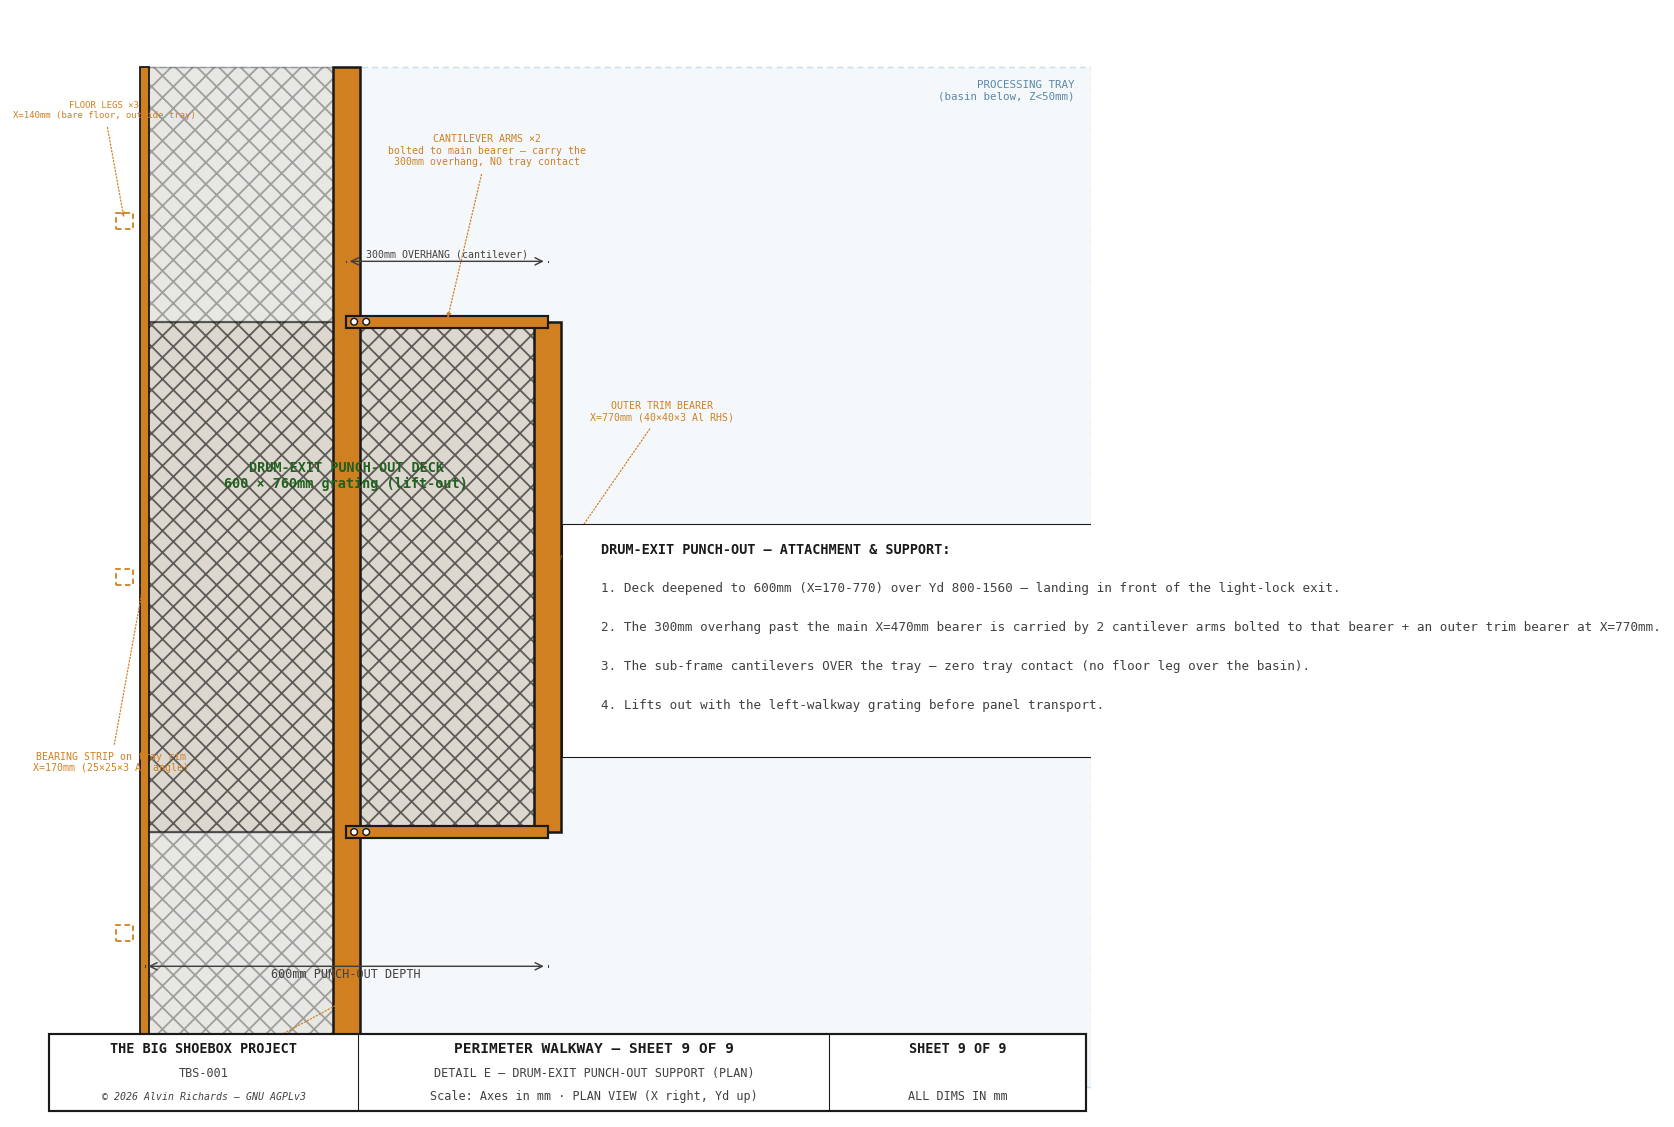
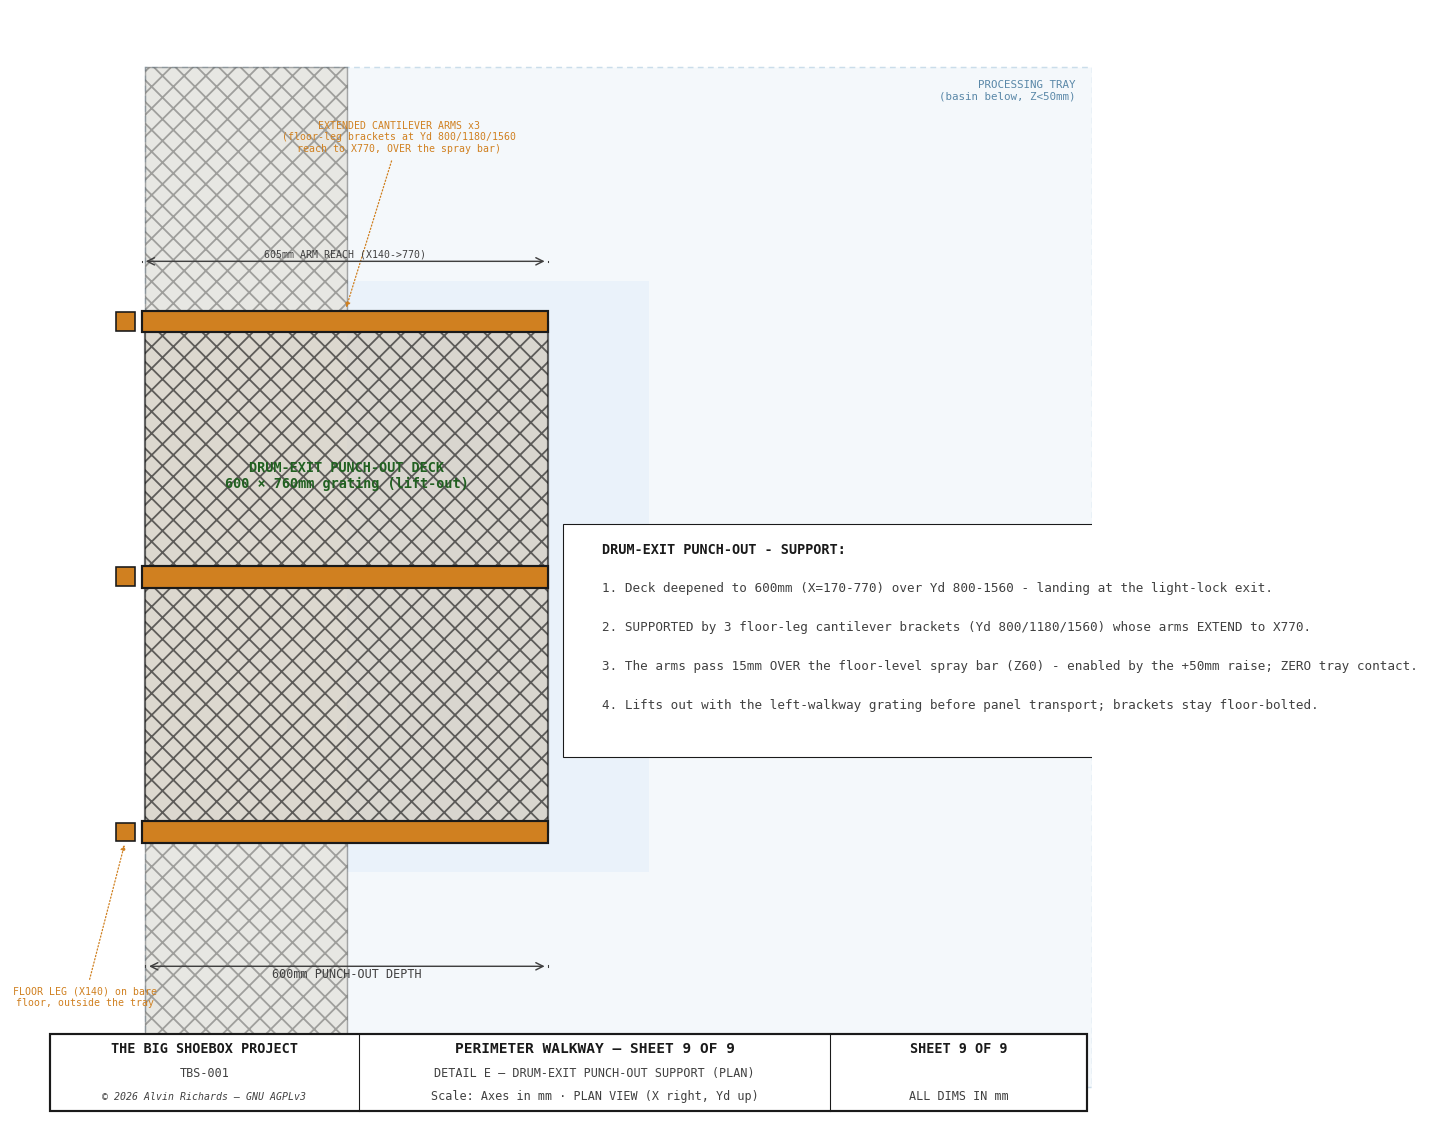
Cascade 1b (2D sheets 1+9): migrate plan + punch-out support to floor-legs
Sheet 1 (plan): left support now the 5 floor-leg brackets (markers + arms to X470,
3 to X770) instead of the edge beam + wall seats + bearing strip; legend + notes updated.
Sheet 9 (punch-out plan): the 300mm overhang is now carried by the 3 EXTENDED floor-leg
cantilever arms (Yd 800/1180/1560 -> X770, over the spray bar), not a main-bearer +
trim-bearer sub-frame. All 5 left-support sheets (1/4/5/6/9) now on the floor-leg design.

diff --git a/src/generators/generate_walkway_diagram.py b/src/generators/generate_walkway_diagram.py
@@ -993,59 +993,25 @@ def sheet1():
             ha="center", va="center", fontsize=7, color="#208020",
             **FONT, zorder=5, alpha=0.6)
 
-    # ── Left walkway support — steel edge beam + floor legs + bearing strip ──
+    # ── Left walkway support — FLOOR-LEG CANTILEVER brackets (plan) ──
     C_SUPPORT = "#D08020"   # orange for support elements
-
-    # Steel edge beam along Yd at X=470 (processing tray side), FULL WIDTH
-    # Simply supported wall-to-wall on a bolt-through wall seat at each end.
-    C_EDGEBM = "#707078"   # grey for the steel edge beam
-    beam_x = LXR   # = 470mm
-    ax.plot([beam_x, beam_x], [0, C_WID],
-            color=C_EDGEBM, lw=4.5, zorder=8, solid_capstyle="butt")
-    ax.text(beam_x + 24, C_WID * 0.5,
-            f"STEEL EDGE BEAM\n{LEFT_WK_BEARER_SIZE}\u00d7{LEFT_WK_BEARER_SIZE}"
-            f"\u00d7{LEFT_WK_BEARER_T}mm STEEL SHS\nFULL WIDTH (REMOVABLE)",
-            ha="left", va="center", fontsize=4.5, color=C_EDGEBM,
-            fontweight="bold", **FONT, zorder=15, rotation=90)
-    # Wall-seat brackets at each end (bolt-through wall, IBC-style)
-    for wy in (0, C_WID):
-        ax.add_patch(Rectangle((beam_x - 10, (wy - 22) if wy else wy),
-                     20, 22, fc=C_EDGEBM, ec=C_OUT, lw=0.8, zorder=9))
-    leader(ax, beam_x, C_WID - 6, beam_x + 240, C_WID + 120,
-           "WALL SEAT (\u00d72)\nBOLT-THROUGH WALL\n3\u00d7 M12 + EXT PLATE\n(SEE SHEET 6)",
-           color=C_EDGEBM, fs=5, ha="center", va="center",
-           arrow_style="-|>", font=FONT)
-
-    # Bearing strip on tray rim (X=170, continuous along Yd)
-    strip_yd_start = NYI   # start at near walkway inner edge (Yd=300)
-    strip_yd_end   = FY    # end at far walkway inner edge (Yd=1962)
-    ax.plot([LX, LX], [strip_yd_start, strip_yd_end],
-            color=C_SUPPORT, lw=3.0, zorder=8, solid_capstyle="butt")
-    ax.text(LX - 20, (strip_yd_start + strip_yd_end) * 0.6,
-            f"BEARING\nSTRIP\n(15mm Al)",
-            ha="right", va="center", fontsize=4.5, color=C_SUPPORT,
-            fontweight="bold", **FONT, zorder=15, rotation=90)
-
-    # Floor-standing support legs (cargo door side, X < tray rim)
-    leg_spacing = WALKWAY_LEFT_SPAN / (LEFT_WK_LEG_N + 1)
-    leg_x = LX - 30  # X=140 (on bare floor, outside tray)
-    leg_sz = 18
-    for i in range(LEFT_WK_LEG_N):
-        cy = NYI + leg_spacing * (i + 1)  # Yd position
-        # Leg marker (small square)
-        ax.add_patch(Rectangle((leg_x - leg_sz / 2, cy - leg_sz / 2),
-                     leg_sz, leg_sz,
+    leg_x = LEFT_WK_CANT_LEG_X                 # 140 (bare floor, outside tray)
+    arm_x0 = leg_x + LEFT_WK_CANT_POST / 2     # 165
+    leg_sz = 24
+    for cy in LEFT_WK_CANT_LEG_YDS:
+        wide_b = WALKWAY_LEFT_WIDE_YD_L <= cy <= WALKWAY_LEFT_WIDE_YD_R
+        reach = LEFT_WK_CANT_WIDE_REACH if wide_b else LEFT_WK_CANT_STD_REACH
+        aw = 16 if wide_b else 10
+        # cantilever arm to the grate inner edge (X470) / punch-out (X770)
+        ax.add_patch(Rectangle((arm_x0, cy - aw / 2), reach - arm_x0, aw,
+                     fc=C_SUPPORT, ec=C_OUT, lw=0.6, alpha=0.7, zorder=8))
+        # foot/post marker on the floor
+        ax.add_patch(Rectangle((leg_x - leg_sz / 2, cy - leg_sz / 2), leg_sz, leg_sz,
                      fc=C_SUPPORT, ec=C_OUT, lw=0.8, zorder=9))
-        # Cantilever arm to walkway edge
-        ax.plot([leg_x, LX + 20], [cy, cy],
-                color=C_SUPPORT, lw=1.5, zorder=8)
-    # Label first leg
-    c1_yd = NYI + leg_spacing
-    leader(ax, leg_x, c1_yd + leg_sz / 2 + 5,
-           leg_x - 300, c1_yd + leg_sz / 2 + 180,
-           f"FLOOR LEG (\u00d7{LEFT_WK_LEG_N})\n{int(leg_spacing)}mm SPACING\nON BARE FLOOR\n(OUTSIDE TRAY)",
-           color=C_SUPPORT, fs=5.5,
-           ha="center", va="center", arrow_style="-|>", font=FONT)
+    leader(ax, leg_x, LEFT_WK_CANT_LEG_YDS[0] + leg_sz / 2 + 5,
+           leg_x - 300, LEFT_WK_CANT_LEG_YDS[0] + 180,
+           "FLOOR-LEG CANTILEVER\nBRACKETS (x5) on BARE FLOOR (X140)\narms reach to X470 (3 extend to X770)",
+           color=C_SUPPORT, fs=5.5, ha="center", va="center", arrow_style="-|>", font=FONT)
 
     # ── Dimension lines ──────────────────────────────────────────────────────
     # Walkway width dimension (near walkway)
@@ -1067,7 +1033,7 @@ def sheet1():
         ("#E8F0FF",    0.3,      None,  "Processing tray"),
         (C_BRKT,     1.0,      None,  f"Wall bracket ({WALKWAY_BRACKET_T}mm std)"),
         ("#CC6644",  1.0,      None,  f"Widened bracket ({WALKWAY_WIDE_BRACKET_T}mm, 500mm arm)"),
-        (C_SUPPORT,  0.8,      None,  f"Support cradle / bearing strip (removable)"),
+        (C_SUPPORT,  0.8,      None,  f"Floor-leg cantilever bracket (x5, removable grate)"),
         ("#3DAA96",  0.35,     None,  f"Evap cooler transport stowage ({EVAP_W}×{EVAP_D}mm)"),
         ("#FF4444",  0.6,      None,  f"Spray bar slit ({SPRAY_BAR_SLIT_W}mm, near + far)"),
         ("#FF0000",  0.06,     None,  "Panel transport envelope"),
@@ -1086,8 +1052,8 @@ def sheet1():
         f"3. Near/far: wall-cantilevered brackets ({WALKWAY_BRACKET_T}mm gussets) at {WALKWAY_BRACKET_SPACING}mm centers.",
         f"   Start at X={LXR} (butt joint). B2: panel transport envelope now reaches X\u22481000.",
         f"4. Right: CEILING-HUNG \u2014 {WALKWAY_RIGHT_HANGER_N} pairs M{WALKWAY_RIGHT_HANGER_D} rod hangers.",
-        f"5. Left: REMOVABLE LIFT-OUT \u2014 full-width steel edge beam ({LEFT_WK_BEARER_SIZE}\u00d7{LEFT_WK_BEARER_SIZE}\u00d7{LEFT_WK_BEARER_T}mm steel SHS) on wall seats at X={LXR},",
-        f"   spans full width ({C_WID}mm) wall-to-wall. {LEFT_WK_LEG_N} floor legs + bearing strip on the outer edge.",
+        f"5. Left: REMOVABLE LIFT-OUT \u2014 5 FLOOR-LEG CANTILEVER brackets on bare floor (X140, outside tray),",
+        f"   arms reach the grate inner edge (X={LXR}); 3 extend to X770 on the drum-exit punch-out. See sheets 5/6.",
         f"6. ZERO tray contact \u2014 all supports outside or above tray. Open area: {PROC_OPEN_AREA:.1f} m\u00b2.",
         f"7. ~{n_brackets_total} wall brackets (near + far). Each grating section lifts off for tray access.",
         f"8. SPRAY BAR SLIT: {SPRAY_BAR_SLIT_W}mm slot at beam center X={int((PROC_OPEN_X_L + PROC_OPEN_X_R) / 2)} in near + far walkway",
@@ -2768,67 +2734,42 @@ def sheet9():
             ha="center", va="center", fontsize=7.5, color="#206020",
             fontweight="bold", **FONT, zorder=12)
 
-    # Bearing strip on tray rim (X=170)
-    ax.add_patch(Rectangle((LX - 7, yL - 380), 14, (yR + 380) - (yL - 380),
-                           fc=C_SUPPORT, ec=C_OUT, lw=1.0, zorder=6))
-    # Main bearer (X=470)
-    ax.add_patch(Rectangle((BEARER_X - BSZ / 2, yL - 380), BSZ,
-                           (yR + 380) - (yL - 380),
-                           fc=C_SUPPORT, ec=C_OUT, lw=1.4, zorder=7))
-    # Outer trim bearer (X=770) across the punch-out span only
-    ax.add_patch(Rectangle((OUTER_X - BSZ / 2, yL), BSZ, yR - yL,
-                           fc=C_SUPPORT, ec=C_OUT, lw=1.4, zorder=7))
-    # Two cantilever arms (Yd=800 & 1560) from main bearer out to trim bearer
-    for cy in (yL, yR):
-        ax.add_patch(Rectangle((BEARER_X, cy - 9), OUTER_X - BEARER_X, 18,
-                               fc=C_SUPPORT, ec=C_OUT, lw=1.2, zorder=8))
-        for bx in (BEARER_X + 12, BEARER_X + 30):   # bolt marks to main bearer
-            ax.add_patch(Circle((bx, cy), 5, fc="white", ec=C_OUT, lw=0.8,
-                                zorder=9))
-
-    # Floor legs (X=140) outside the tray — ghost markers
-    leg_x = LX - 30
-    for cy in (yL - 150, (yL + yR) / 2, yR + 150):
-        ax.add_patch(Rectangle((leg_x - 12, cy - 12), 24, 24, fc="none",
-                               ec=C_SUPPORT, lw=1.0, ls=(0, (3, 2)), zorder=6))
+    # ── 3 EXTENDED floor-leg cantilever arms support the punch-out ──
+    arm_x0 = LEFT_WK_CANT_LEG_X + LEFT_WK_CANT_POST / 2   # 165
+    leg_x = LEFT_WK_CANT_LEG_X                            # 140
+    punch_yds = [cy for cy in LEFT_WK_CANT_LEG_YDS if yL <= cy <= yR]   # 800,1180,1560
+    # Spray-bar travel zone (X>=470) under the deck
+    ax.add_patch(Rectangle((BEARER_X, yL - 60), (OUTER_X + 150) - BEARER_X, (yR + 60) - (yL - 60),
+                           fc="#EAF2FA", ec="none", zorder=1))
+    ax.text(OUTER_X + 40, (yL + yR) / 2, "SPRAY BAR travels here\n(under the deck, Z20-60)",
+            ha="left", va="center", fontsize=5.5, color="#3A7AB0", style="italic", zorder=2)
+    for cy in punch_yds:
+        ax.add_patch(Rectangle((arm_x0, cy - 16), OUTER_X - arm_x0, 32,
+                               fc=C_SUPPORT, ec=C_OUT, lw=1.2, zorder=8))    # extended arm to X770
+        ax.add_patch(Rectangle((leg_x - 14, cy - 14), 28, 28, fc=C_SUPPORT, ec=C_OUT, lw=0.9, zorder=9))  # foot/post
 
     # ── Leaders ──────────────────────────────────────────────────────────────
-    leader(ax, BEARER_X, yL - 250, BEARER_X - 250, yL - 360,
-           f"STEEL EDGE BEAM  X={BEARER_X}mm\n{BSZ}×{BSZ}×{LEFT_WK_BEARER_T}mm steel SHS\non bolt-through wall seats",
-           color=C_SUPPORT, fs=5.5, ha="center", va="top",
-           arrow_style="-|>", font=FONT)
-    leader(ax, OUTER_X, (yL + yR) / 2, OUTER_X + 170, (yL + yR) / 2 + 230,
-           f"OUTER TRIM BEARER\nX={OUTER_X}mm ({BSZ}×{BSZ}×{LEFT_WK_BEARER_T} Al RHS)",
-           color=C_SUPPORT, fs=5.5, ha="center", va="bottom",
-           arrow_style="-|>", font=FONT)
-    leader(ax, (BEARER_X + OUTER_X) / 2, yR, (BEARER_X + OUTER_X) / 2 + 60, yR + 230,
-           "CANTILEVER ARMS ×2\nbolted to main bearer — carry the\n300mm overhang, NO tray contact",
-           color=C_SUPPORT, fs=5.5, ha="center", va="bottom",
-           arrow_style="-|>", font=FONT)
-    leader(ax, LX, (yL + yR) / 2, LX - 50, (yL + yR) / 2 - 260,
-           f"BEARING STRIP on tray rim\nX={LX}mm (25×25×3 Al angle)",
-           color=C_SUPPORT, fs=5.5, ha="center", va="top",
-           arrow_style="-|>", font=FONT)
-    leader(ax, leg_x, yR + 150, leg_x - 30, yR + 300,
-           f"FLOOR LEGS ×{LEFT_WK_LEG_N}\nX=140mm (bare floor, outside tray)",
-           color=C_SUPPORT, fs=5, ha="center", va="bottom",
-           arrow_style="-|>", font=FONT)
+    leader(ax, (arm_x0 + OUTER_X) / 2, yR + 16, (arm_x0 + OUTER_X) / 2 + 80, yR + 250,
+           "EXTENDED CANTILEVER ARMS x3\n(floor-leg brackets at Yd 800/1180/1560\nreach to X770, OVER the spray bar)",
+           color=C_SUPPORT, fs=5.5, ha="center", va="bottom", arrow_style="-|>", font=FONT)
+    leader(ax, leg_x, yL - 14, leg_x - 60, yL - 230,
+           "FLOOR LEG (X140) on bare\nfloor, outside the tray",
+           color=C_SUPPORT, fs=5.5, ha="center", va="top", arrow_style="-|>", font=FONT)
 
     # ── Dimensions ───────────────────────────────────────────────────────────
     draw_dim_h(ax, LX, OUTER_X, yL - 200,
                f"{WALKWAY_LEFT_WIDE_W}mm PUNCH-OUT DEPTH", offset=5, fs=6.5,
                above=False, font=FONT)
-    draw_dim_h(ax, BEARER_X, OUTER_X, yR + 90,
-               f"{OUTER_X - BEARER_X}mm OVERHANG (cantilever)", offset=4,
-               fs=5.5, font=FONT)
+    draw_dim_h(ax, arm_x0, OUTER_X, yR + 90,
+               f"{int(OUTER_X - arm_x0)}mm ARM REACH (X140->770)", offset=4, fs=5.5, font=FONT)
 
     # ── Notes ────────────────────────────────────────────────────────────────
     notes = [
-        "DRUM-EXIT PUNCH-OUT — ATTACHMENT & SUPPORT:",
-        f"1. Deck deepened to {WALKWAY_LEFT_WIDE_W}mm (X={LX}-{OUTER_X}) over Yd {yL}-{yR} — landing in front of the light-lock exit.",
-        f"2. The {OUTER_X - BEARER_X}mm overhang past the main X={BEARER_X}mm bearer is carried by 2 cantilever arms bolted to that bearer + an outer trim bearer at X={OUTER_X}mm.",
-        "3. The sub-frame cantilevers OVER the tray — zero tray contact (no floor leg over the basin).",
-        "4. Lifts out with the left-walkway grating before panel transport.",
+        "DRUM-EXIT PUNCH-OUT - SUPPORT:",
+        f"1. Deck deepened to {WALKWAY_LEFT_WIDE_W}mm (X={LX}-{OUTER_X}) over Yd {yL}-{yR} - landing at the light-lock exit.",
+        "2. SUPPORTED by 3 floor-leg cantilever brackets (Yd 800/1180/1560) whose arms EXTEND to X770.",
+        "3. The arms pass 15mm OVER the floor-level spray bar (Z60) - enabled by the +50mm raise; ZERO tray contact.",
+        "4. Lifts out with the left-walkway grating before panel transport; brackets stay floor-bolted.",
     ]
     draw_notes(ax, notes, 850, yL + 430, spacing=58, fs=7, ha="left",
                width=690, font=FONT)
